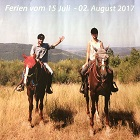
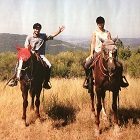
added 'Einmaligkeit dank doppelter lokaler Handarbeit' in media; added 'Ferien'

diff --git a/content/post/Einmaligkeit.md b/content/post/Einmaligkeit.md
@@ -1,0 +1,19 @@
+---
+title: "Einmaligkeit dank doppelter lokaler Handarbeit"
+date: 2018-06-26
+categories:
+- media
+tags:
+- media
+keywords:
+- changes
+autoThumbnailImage: false
+thumbnailImagePosition: "left"
+thumbnailImage: /img/doppelte-inovation-140.jpg
+coverMeta: out
+metaAlignment: center
+showTags: false
+showSocial: false
+---
+<!--more-->
+{{< image classes="fancybox nocaption fig-100" src="/img/doppelte-inovation.jpg" thumbnail="/img/doppelte-inovation.jpg" >}}In der Juniausgabe vom "Drü-Egg" 2018, Text Daniel Rauch, Foto Andreas Zihler

diff --git a/content/post/Ferien.md b/content/post/Ferien.md
@@ -1,0 +1,19 @@
+---
+title: "Sommerferien"
+date: 2018-07-12
+categories:
+- sale
+tags:
+- sale
+keywords:
+- changes
+autoThumbnailImage: false
+thumbnailImagePosition: "left"
+thumbnailImage: /img/sommerferien-2017-140.jpg
+coverMeta: out
+metaAlignment: center
+showTags: false
+showSocial: false
+---
+Sommerferien vom 21. Juli bis 4. August
+{{< image classes="fancybox nocaption fig-100" src="/img/sommerferien-2017.jpg" thumbnail="/img/sommerferien-2017.jpg" >}}
